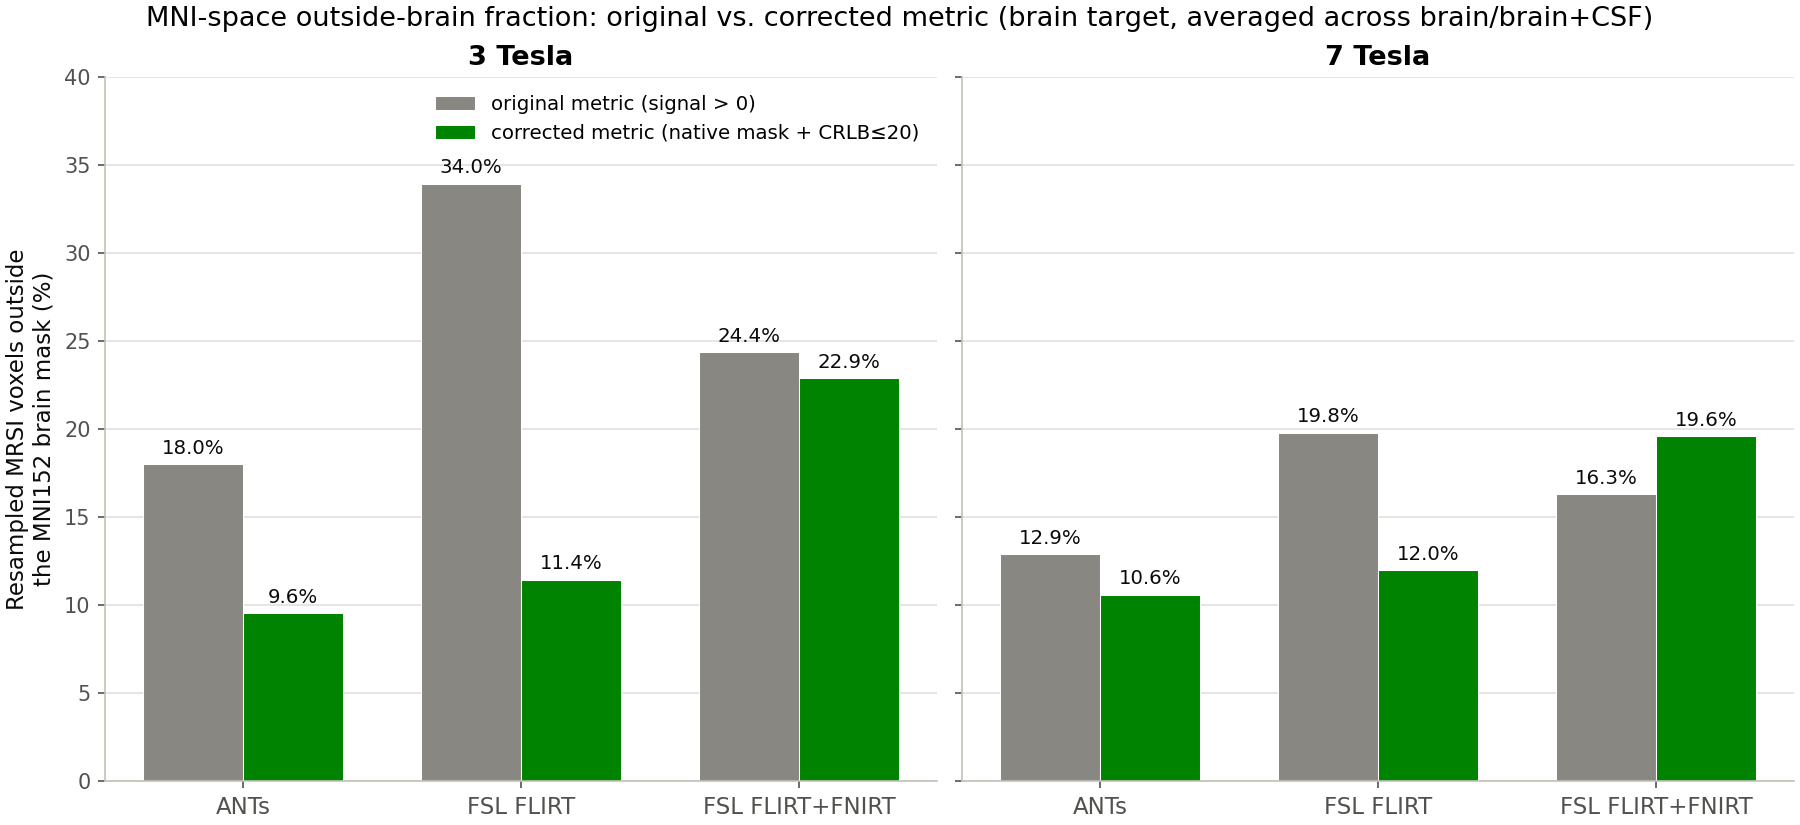
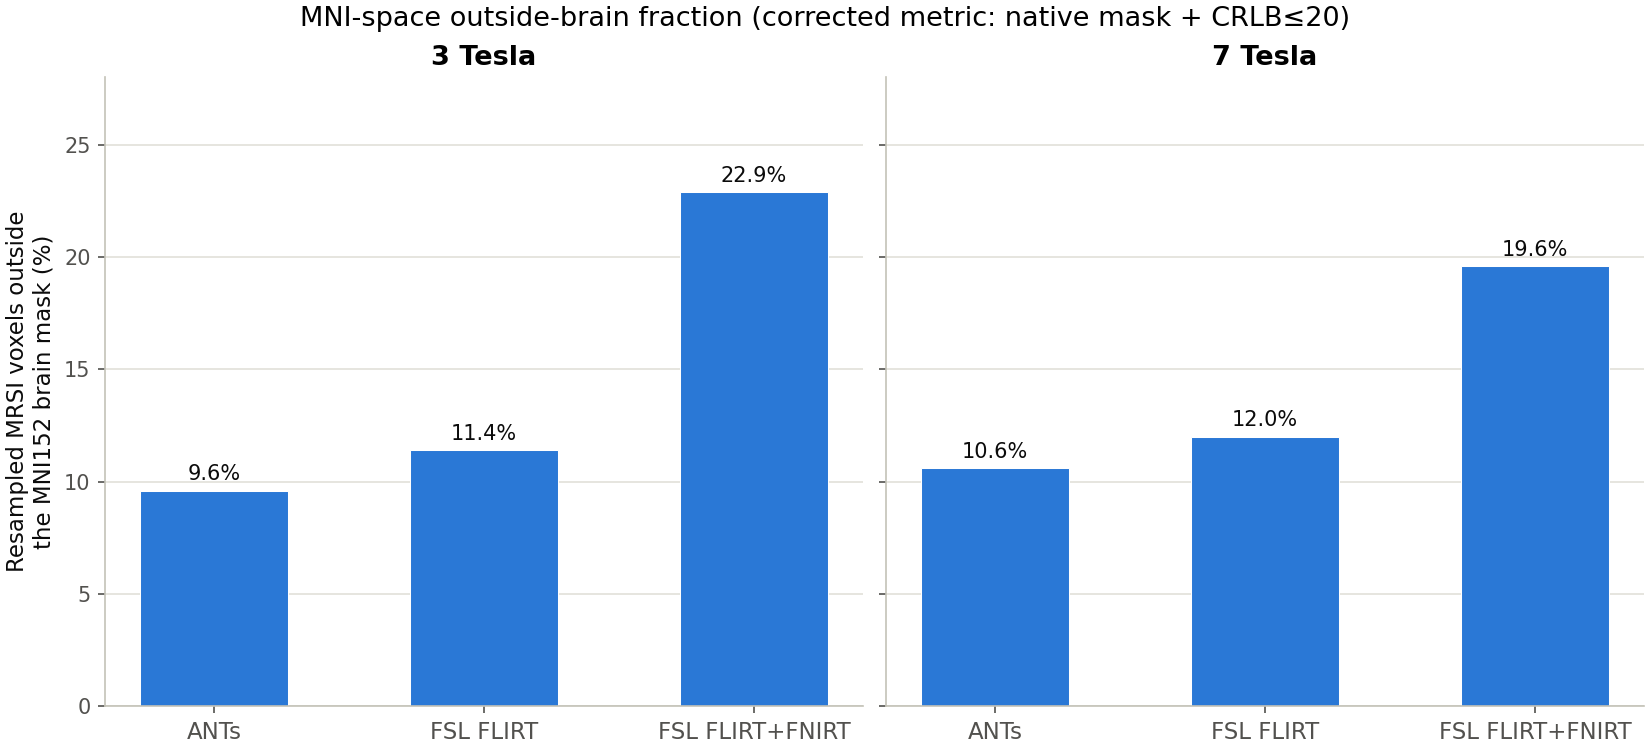
Simplify registration-benchmark docs to the corrected metric plus a runtime comparison
Drop the original-vs-corrected framing now that the corrected (native
mask + CRLB<=20) metric is validated; show only that figure, and add a
wall-clock runtime comparison (ANTs vs FSL FLIRT vs FSL FLIRT+FNIRT,
3T vs 7T) directly below it. Bump to v1.5.5.

diff --git a/docs/benchmarks.md b/docs/benchmarks.md
@@ -140,30 +140,22 @@ the same 3 Tesla and 7 Tesla subjects used above, varying
 `experiments/registration_backend_benchmark.py` (not published; internal
 validation script).
 
-**Two versions of the "outside brain" metric are reported below, because
-the first version turned out to be a misleading measure of registration
-quality on its own:**
+**"Covered"** is defined as: the native-resolution MRSI acquisition
+brainmask (mrsiprep's own real coverage mask, not a signal threshold),
+resampled with **nearest-neighbor** interpolation (which cannot invent
+smeared boundary values the way linear/spline interpolation does), **and**
+requiring the resampled CRLB map ≤ 20 (mrsiprep's own default
+`--crlb-max`, its existing per-voxel quality criterion) at that location —
+only voxels passing both conditions count as real, quantifiable MRSI
+coverage. (An earlier version of this metric used "resampled signal
+nonzero" as the coverage criterion, which overstated leakage by counting
+linear/spline interpolation smear at the boundary as coverage; the
+mask+CRLB definition above avoids that.)
 
-- **Original metric**: "covered" = wherever the resampled reference
-  metabolite (CrPCr) signal map is nonzero. This overstates leakage,
-  because resampling a coarse (~5mm/~3.4mm) native MRSI grid onto a fine
-  1mm MNI grid via linear/spline interpolation smears real signal a
-  little past its true edge — those smeared near-zero residual voxels
-  still count as "signal," inflating the outside-brain count with
-  interpolation artifacts rather than genuine registration error.
-- **Corrected metric**: "covered" = the native-resolution MRSI acquisition
-  brainmask (mrsiprep's own real coverage mask, not a signal threshold),
-  resampled with **nearest-neighbor** interpolation (which cannot invent
-  smeared boundary values the way linear/spline interpolation does), **and**
-  requiring the resampled CRLB map ≤ 20 (mrsiprep's own default
-  `--crlb-max`, its existing per-voxel quality criterion) at that location.
-  Only voxels passing both conditions count as real, quantifiable MRSI
-  coverage.
-
-Both are computed against the same three reference masks: the T1w
-brain-only mask, the T1w brain+CSF mask, and the MNI152 template's own
-standard brain mask (in MNI space) — counting how many "covered" voxels
-fall **outside** each reference mask.
+This is computed against three reference masks: the T1w brain-only mask,
+the T1w brain+CSF mask, and the MNI152 template's own standard brain mask
+(in MNI space) — counting how many "covered" voxels fall **outside** each
+reference mask.
 
 ### Results
 
@@ -186,46 +178,50 @@ leaked beyond the true brain boundary during registration — visible here
 for both FSL variants at both field strengths, most noticeably as a
 coarser, less anatomically detailed outer edge than ANTs produces.
 
-**Original vs. corrected "outside brain" metric, by backend (brain
-target; brain+CSF is within ±1-2 points of these and shows the same
-pattern):**
+**Resampled MRSI voxels falling outside the MNI152 brain mask, by
+backend (brain target; brain+CSF is within ±1-2 points of these and shows
+the same pattern):**
 
-![Bar chart: original (signal>0) vs. corrected (native mask + CRLB<=20) percentage of resampled MRSI voxels outside the MNI152 brain mask, by registration backend, faceted by 3 Tesla vs 7 Tesla](figures/registration_backend_mni_outside_comparison.png)
+![Bar chart: percentage of resampled MRSI voxels outside the MNI152 brain mask, by registration backend, faceted by 3 Tesla vs 7 Tesla](figures/registration_backend_mni_outside_comparison.png)
+
+**Total `mni-norm` wall-clock runtime by registration backend** (same two
+subjects, averaged across the `brain`/`brain+CSF` targets):
+
+![Bar chart: total mni-norm runtime in minutes, by registration backend (ANTs, FSL FLIRT, FSL FLIRT+FNIRT), for 3 Tesla vs 7 Tesla](figures/registration_backend_runtime.png)
 
 ### Interpretation
 
-* **The correction roughly halves the apparent leakage for ANTs and FSL
-  FLIRT, confirming most of the original metric's "outside brain" count
-  was interpolation smear, not real registration error.** ANTs drops from
-  18.0%→9.6% (3T) and 12.9%→10.6% (7T); FSL FLIRT-only drops from
-  34.0%→11.4% (3T) and 19.8%→12.0% (7T). Even the corrected numbers are
-  not "wrong registration" in a literal sense — a thin shell of boundary
-  voxels is an inherently larger fraction of total 3D volume than it
-  looks on any single 2D slice, so some nonzero baseline is expected even
-  for a hypothetically perfect registration.
+* **ANTs and FSL FLIRT-only are close on outside-brain leakage** (9.6% vs.
+  11.4% at 3T; 10.6% vs. 12.0% at 7T). ANTs still wins, consistent with
+  the overlay figures showing its sharper, more anatomically detailed
+  result, but the margin is modest. Even these numbers are not "wrong
+  registration" in a literal sense — a thin shell of boundary voxels is an
+  inherently larger fraction of total 3D volume than it looks on any
+  single 2D slice, so some nonzero baseline is expected even for a
+  hypothetically perfect registration.
 
-* **ANTs and FSL FLIRT-only are now close** under the corrected metric
-  (9.6% vs. 11.4% at 3T; 10.6% vs. 12.0% at 7T) — the large gap in the
-  original metric was mostly an artifact of the two methods producing
-  different amounts of interpolation smear, not a large true difference
-  in anatomical accuracy. ANTs still wins, consistent with the overlay
-  figures showing its sharper, more anatomically detailed result, but the
-  margin is much smaller than the original metric suggested.
-
-* **FSL FLIRT+FNIRT's corrected number is a known measurement artifact,
-  not evidence FNIRT is worse.** Its corrected leakage barely changes (3T:
-  24.4%→22.9%; 7T: 16.3%→19.6%) — worse, in relative terms, than either
-  affine-only method. This is because the corrected metric resamples a
+* **FSL FLIRT+FNIRT's higher outside-brain number here (22.9% at 3T,
+  19.6% at 7T) is a known measurement artifact of this specific metric,
+  not evidence FNIRT produces worse registration.** The metric resamples a
   **binary** coverage mask with **nearest-neighbor** interpolation through
   each transform, and a nonlinear warp (FNIRT's deformable field, unlike
-  ANTs' and FLIRT's affine transforms used here for this specific mask
-  resampling) can locally stretch space and dilate a binary mask's
-  footprint independent of whether the underlying registration is more or
-  less anatomically accurate. The overlay figures and the original
-  signal-based metric — both of which resample the actual continuous
-  signal rather than a binary mask — remain the better evidence that
-  FNIRT genuinely improves on FLIRT-only, consistent with FNIRT's default
-  status for `--registration-backend fsl`.
+  ANTs' and FLIRT's affine transforms) can locally stretch space and
+  dilate a binary mask's footprint independent of whether the underlying
+  registration is more or less anatomically accurate. The overlay figures
+  — which show the actual continuous resampled signal, not a binary mask
+  — remain the better evidence that FNIRT genuinely improves on
+  FLIRT-only.
+
+* **FNIRT's accuracy comes at a substantial runtime cost.** At 3T, FNIRT
+  (11.6 min) costs roughly 3.8× FLIRT-only (3.1 min) and is comparable to
+  ANTs (9.3 min). At 7T, the gap widens sharply: FNIRT (53.0 min) is
+  roughly 4.7× FLIRT-only (11.2 min) and nearly 2× ANTs itself (27.0 min)
+  — FNIRT is the slowest of all three options at 7T despite ANTs still
+  giving the best registration quality. For batch processing where
+  runtime matters and the FSL toolchain is required for another reason,
+  FLIRT-only may be preferable to FNIRT despite its higher leakage;
+  otherwise ANTs remains the best combination of accuracy and runtime at
+  both field strengths.
 
 * **Brain vs. brain+CSF as the T1w registration target has a small effect
   that flips direction between field strengths** (this pattern is

diff --git a/docs/changelog.md b/docs/changelog.md
@@ -2,6 +2,17 @@
 
 ## Unreleased
 
+- Corrected the Registration Frameworks benchmark's "outside brain mask"
+  metric: it now resamples the native-resolution MRSI acquisition
+  brainmask with nearest-neighbor interpolation and requires CRLB ≤ 20
+  (mrsiprep's own `--crlb-max` default) rather than treating any nonzero
+  resampled signal as "covered" — the previous signal-based metric
+  overstated leakage by counting linear/spline interpolation smear at the
+  brain boundary as real coverage. Also added a wall-clock runtime
+  comparison (ANTs vs. FSL FLIRT vs. FSL FLIRT+FNIRT, 3T vs. 7T) to the
+  same benchmark section, showing FNIRT's substantial extra cost
+  (especially at 7T: ~53 min vs. ~27 min for ANTs vs. ~11 min for
+  FLIRT-only). See `docs/benchmarks.md`.
 - Added an FNIRT deformable stage to the FSL registration backend for
   MRSI→T1w (`--fsl-deformable`, **on by default** when
   `--registration-backend fsl` is selected; `--no-fsl-deformable` reverts

diff --git a/docs/index.md b/docs/index.md
@@ -3,7 +3,7 @@
 *MRSIPrep* is a preprocessing and derivative-generation pipeline for already
 quantified whole-brain MRSI maps, run as a BIDS App via Docker.
 
-![version](https://img.shields.io/badge/version-v1.5.4-blue)
+![version](https://img.shields.io/badge/version-v1.5.5-blue)
 [![e2e mni-norm](https://img.shields.io/github/actions/workflow/status/MRSI-Psychosis-UP/MRSIPrep/e2e-mni-norm.yml?label=e2e%20mni-norm&color=success)](https://github.com/MRSI-Psychosis-UP/MRSIPrep/actions/workflows/e2e-mni-norm.yml)
 [![e2e parc-con](https://img.shields.io/github/actions/workflow/status/MRSI-Psychosis-UP/MRSIPrep/e2e-parc-con.yml?label=e2e%20parc-con&color=success)](https://github.com/MRSI-Psychosis-UP/MRSIPrep/actions/workflows/e2e-parc-con.yml)
 [![docs](https://app.readthedocs.org/projects/mrsiprep/badge/?version=stable)](https://mrsiprep.readthedocs.io/en/stable/)

diff --git a/README.md b/README.md
@@ -2,7 +2,7 @@
 
 
 
-![version](https://img.shields.io/badge/version-v1.5.4-blue)
+![version](https://img.shields.io/badge/version-v1.5.5-blue)
 [![e2e mni-norm](https://img.shields.io/github/actions/workflow/status/MRSI-Psychosis-UP/MRSIPrep/e2e-mni-norm.yml?label=e2e%20mni-norm&color=success)](https://github.com/MRSI-Psychosis-UP/MRSIPrep/actions/workflows/e2e-mni-norm.yml)
 [![e2e parc-con](https://img.shields.io/github/actions/workflow/status/MRSI-Psychosis-UP/MRSIPrep/e2e-parc-con.yml?label=e2e%20parc-con&color=success)](https://github.com/MRSI-Psychosis-UP/MRSIPrep/actions/workflows/e2e-parc-con.yml)
 [![docs](https://app.readthedocs.org/projects/mrsiprep/badge/?version=stable)](https://mrsiprep.readthedocs.io/en/stable/)
